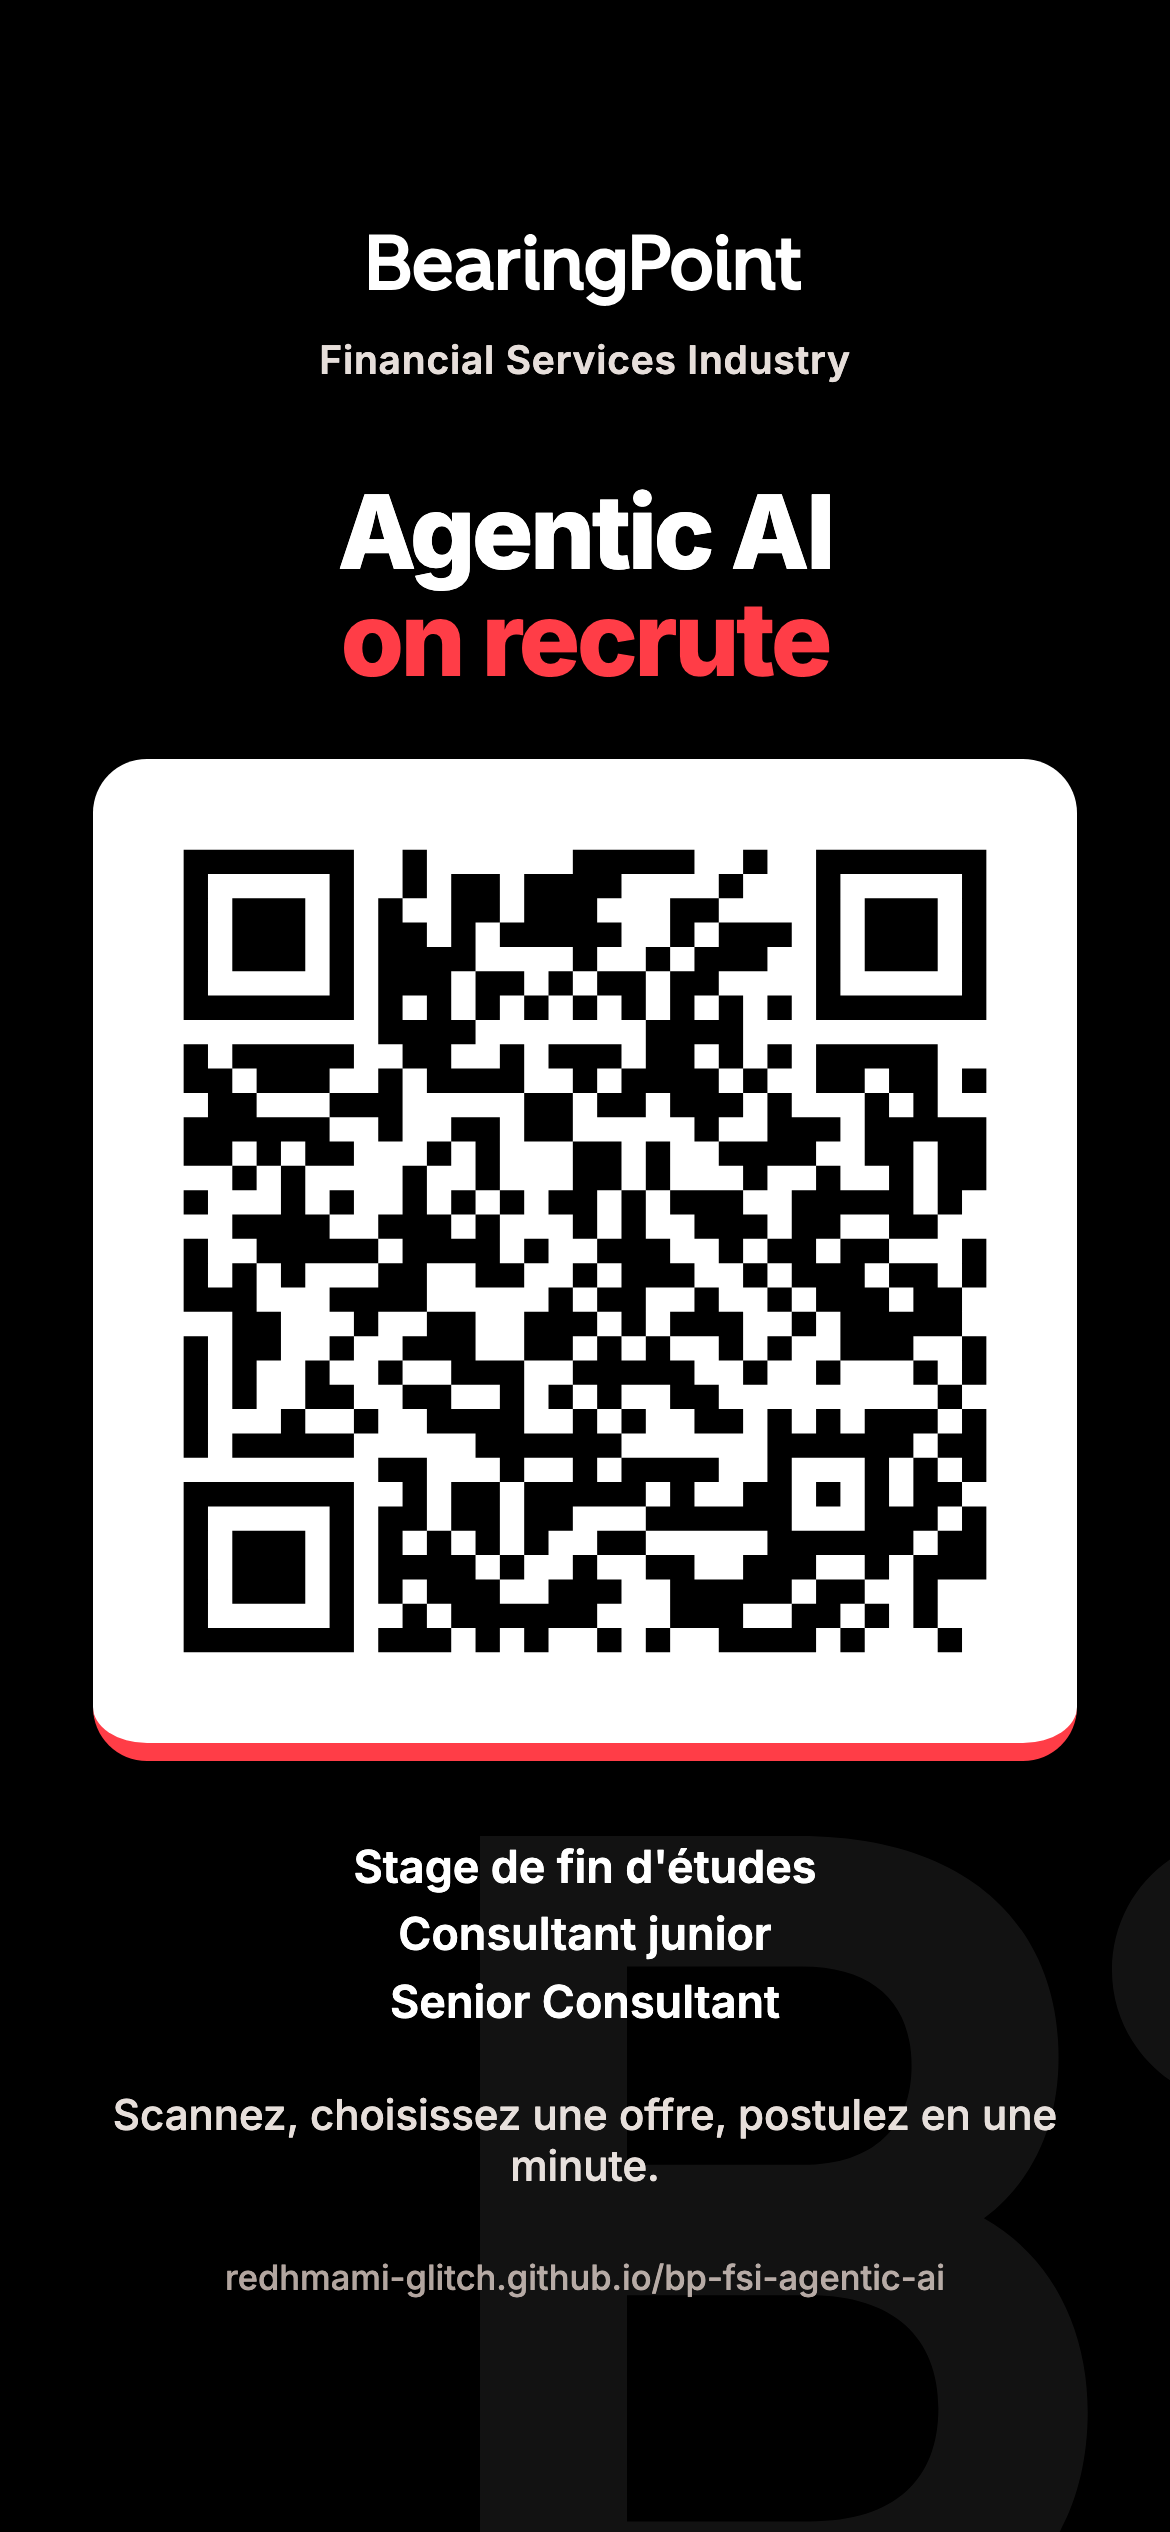
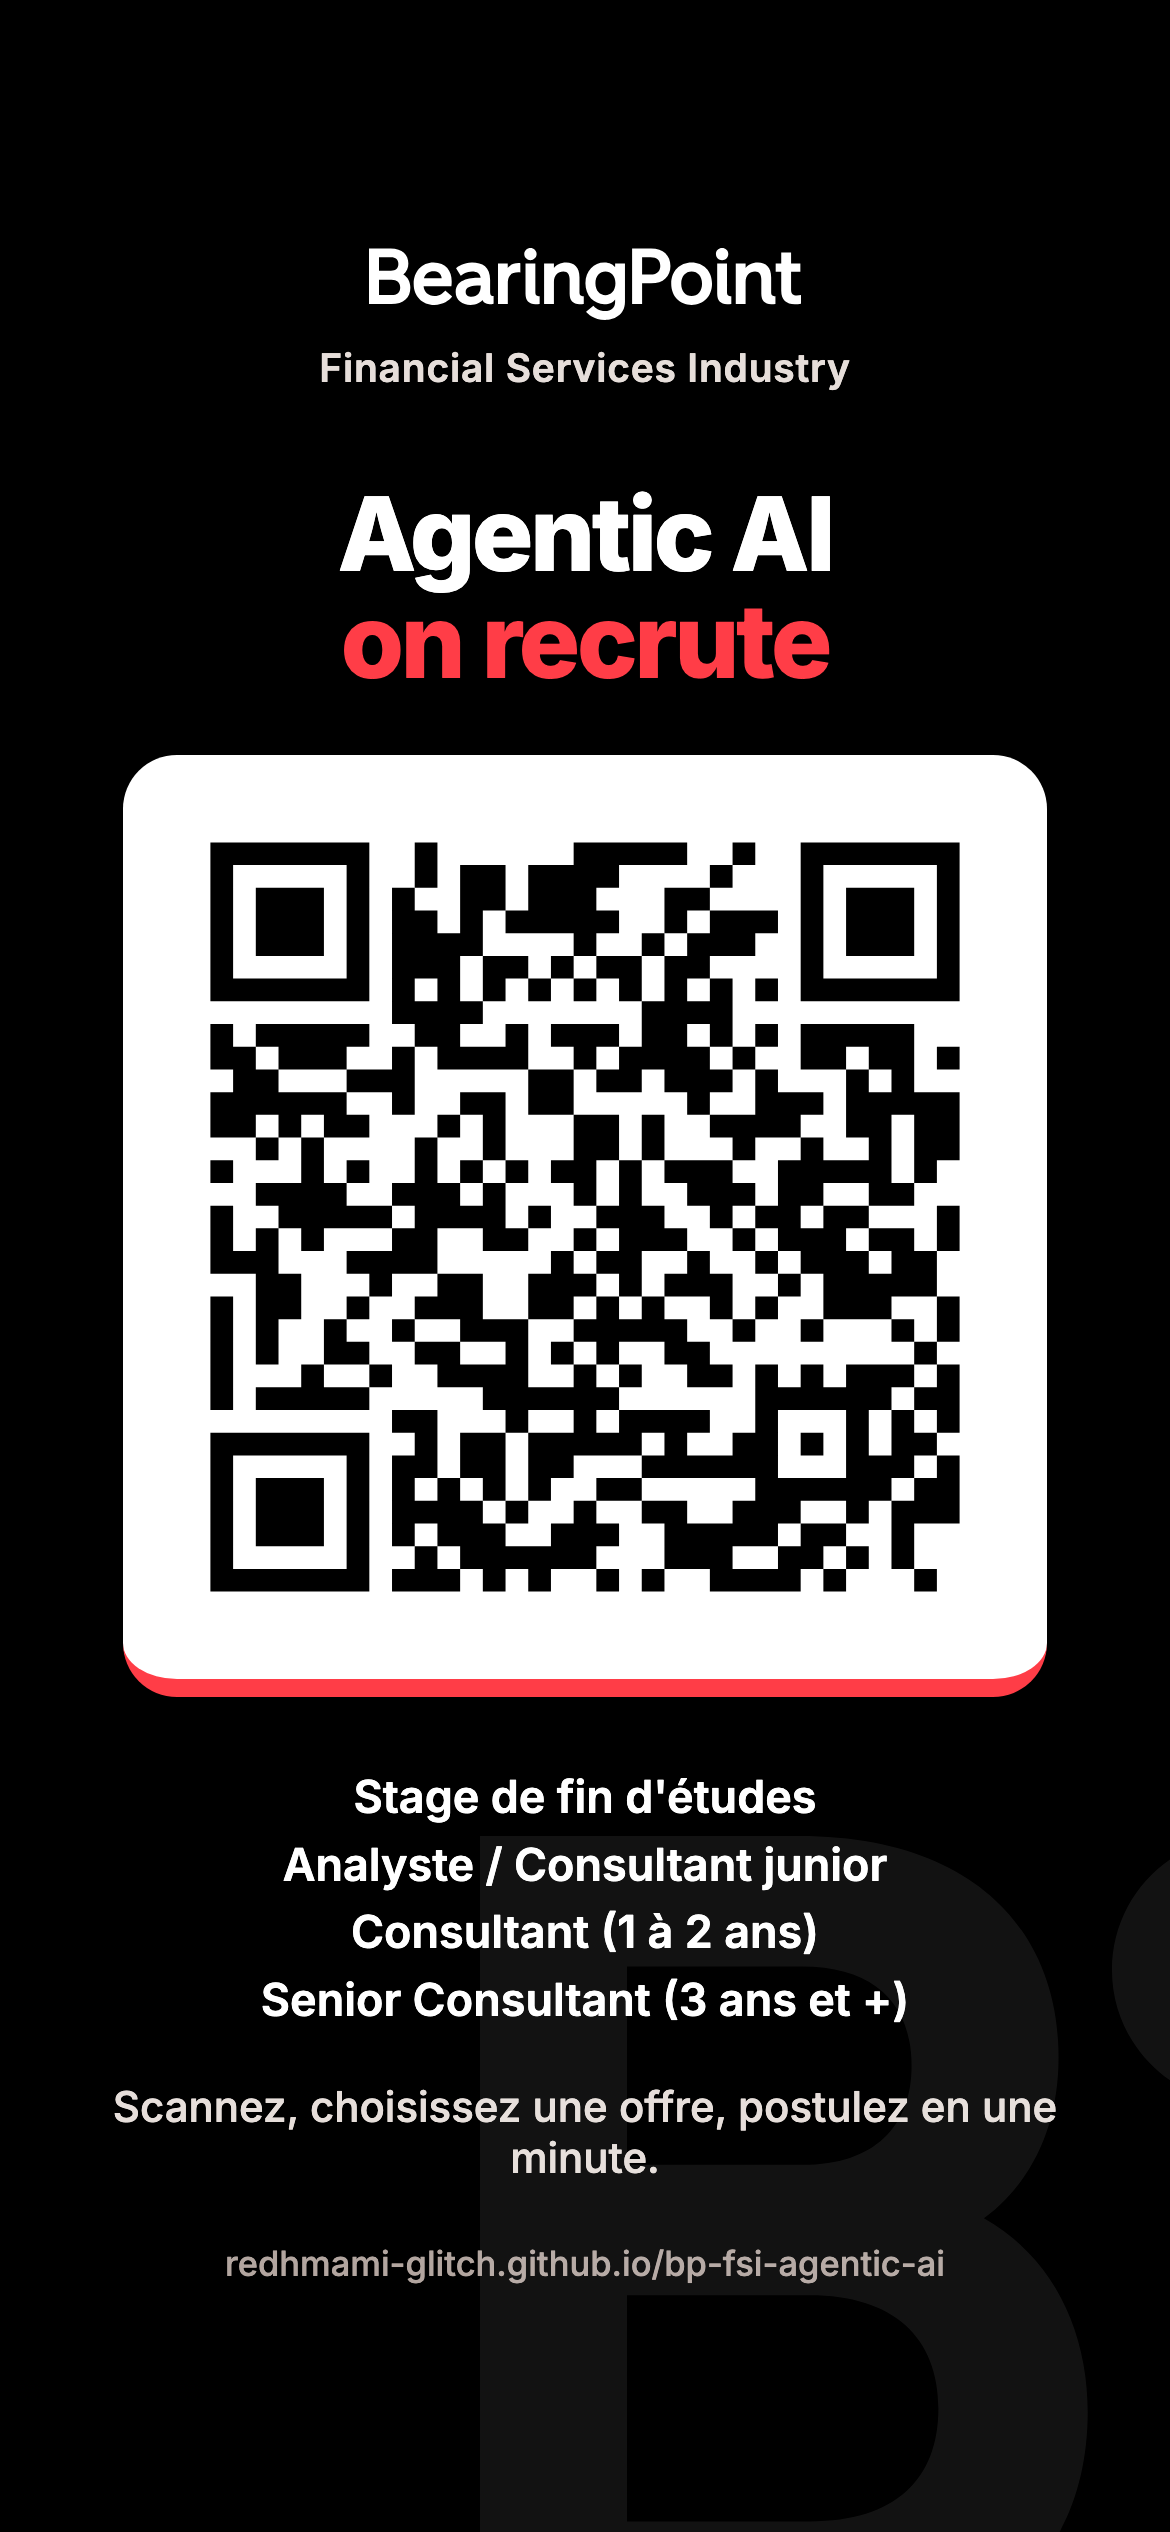
4 offres distinctes : stage, Analyste / CJ, Consultant 1-2 ans, Senior Consultant 3 ans et +

diff --git a/index.html b/index.html
@@ -4,15 +4,15 @@
 <meta charset="utf-8">
 <meta name="viewport" content="width=device-width, initial-scale=1">
 <title>Agentic AI | Financial Services Industry | BearingPoint</title>
-<meta name="description" content="BearingPoint Financial Services Industry recrute&nbsp;: stage de fin d'études, Consultant junior et Senior Consultant sur l'IA agentique, la stratégie IA et l'AI at scale en banque et assurance.">
+<meta name="description" content="BearingPoint Financial Services Industry recrute&nbsp;: stage de fin d'études, Analyste / Consultant junior, Consultant et Senior Consultant sur l'IA agentique, la stratégie IA et l'AI at scale en banque et assurance.">
 <meta property="og:title" content="Agentic AI x Financial Services Industry&nbsp;: on recrute">
-<meta property="og:description" content="Stage de fin d'études, Consultant junior, Senior Consultant. Paris La Défense.">
+<meta property="og:description" content="Stage de fin d'études, Analyste / Consultant junior, Consultant, Senior Consultant. Paris La Défense.">
 <meta name="theme-color" content="#000000">
 <link rel="icon" href="assets/favicon.svg" type="image/svg+xml">
 <link rel="preconnect" href="https://fonts.googleapis.com">
 <link rel="preconnect" href="https://fonts.gstatic.com" crossorigin>
 <link href="https://fonts.googleapis.com/css2?family=Inter:wght@400;500;600;700;800&display=swap" rel="stylesheet">
-<link rel="stylesheet" href="assets/style.css?v=5">
+<link rel="stylesheet" href="assets/style.css?v=7">
 </head>
 <body>
 
@@ -27,7 +27,8 @@
     <p class="lede">Rejoignez l'équipe Financial Services Industry de BearingPoint. Avec nous, vous repenserez les processus métier des grands acteurs de la banque et de l'assurance (finance, risques, opérations, conformité) autour d'agents IA qui travaillent aux côtés des équipes, en production.</p>
     <div class="chips">
       <a class="chip" href="#stage">Stage de fin d'études</a>
-      <a class="chip" href="#consultant">Consultant junior</a>
+      <a class="chip" href="#analyste">Analyste / Consultant junior</a>
+      <a class="chip" href="#consultant">Consultant</a>
       <a class="chip" href="#senior">Senior Consultant</a>
     </div>
   </div>
@@ -95,12 +96,41 @@
     <button class="apply" data-role="Stage de fin d'études Agentic AI FSI">Postuler</button>
   </article>
 
-  <!-- ===================== CONSULTANT ===================== -->
+  <!-- ===================== ANALYSTE / CJ ===================== -->
+  <article class="offer" id="analyste">
+    <div class="offer-head">
+      <span class="tag">CDI, jeune diplômé</span>
+      <h3>Analyste / Consultant junior Agentic AI</h3>
+      <p class="meta">Premier poste après votre diplôme. Paris La Défense, travail hybride.</p>
+    </div>
+    <details>
+      <summary>Voir l'offre</summary>
+      <h4>Vos missions</h4>
+      <ul>
+        <li>Intégrer une équipe de mission et contribuer dès les premières semaines à la refonte d'un processus métier (finance, risques, opérations, conformité).</li>
+        <li>Analyser les données et les processus existants, mesurer où un agent IA fait gagner du temps ou de la qualité.</li>
+        <li>Prototyper et tester des agents avec les équipes data du client.</li>
+        <li>Produire les analyses et les supports présentés aux directions métier.</li>
+        <li>Suivre un parcours de formation structuré&nbsp;: méthodes du conseil, IA, secteur financier.</li>
+      </ul>
+      <h4>Votre profil</h4>
+      <ul>
+        <li>Diplômé (ou en cours de diplôme) d'une grande école d'ingénieurs généraliste, avec une coloration maths appliquées, informatique, data science ou finance.</li>
+        <li>Un ou plusieurs stages réussis, idéalement en conseil, en banque, en assurance ou dans une équipe data et IA.</li>
+        <li>Vous avez déjà manipulé un LLM ou un framework d'agents en projet ou en hackathon.</li>
+        <li>Rigueur analytique, aisance à l'oral, goût du travail en équipe.</li>
+        <li>Français et anglais courants.</li>
+      </ul>
+    </details>
+    <button class="apply" data-role="Analyste / Consultant junior Agentic AI FSI">Postuler</button>
+  </article>
+
+  <!-- ===================== CONSULTANT 1-2 ANS ===================== -->
   <article class="offer" id="consultant">
     <div class="offer-head">
-      <span class="tag">CDI, 0 à 3 ans</span>
-      <h3>Consultant junior Agentic AI</h3>
-      <p class="meta">Jeune diplômé ou première expérience. Paris La Défense, travail hybride.</p>
+      <span class="tag">CDI, 1 à 2 ans d'expérience</span>
+      <h3>Consultant Agentic AI</h3>
+      <p class="meta">Première expérience en conseil, banque, assurance ou data. Paris La Défense, travail hybride.</p>
     </div>
     <details>
       <summary>Voir l'offre</summary>
@@ -108,28 +138,28 @@
       <ul>
         <li>Prendre en charge un sujet de bout en bout&nbsp;: cadrage du cas d'usage, ateliers métier, conception de l'agent, suivi du pilote.</li>
         <li>Faire le lien entre les métiers (finance, risques, opérations, conformité) et les équipes data et IT.</li>
-        <li>Définir les indicateurs de performance de l'agent et piloter son évaluation&nbsp;: qualité, coût, délai, risques.</li>
+        <li>Définir les indicateurs de performance de l'agent et piloter son évaluation&nbsp;: qualité, coût, délai.</li>
         <li>Contribuer au passage à l'échelle&nbsp;: industrialisation, adoption par les équipes, mesure de la valeur.</li>
-        <li>Participer aux réponses aux appels d'offres et au développement de nos offres IA.</li>
+        <li>Participer aux réponses aux appels d'offres et accompagner les analystes et stagiaires.</li>
       </ul>
       <h4>Votre profil</h4>
       <ul>
-        <li>Diplômé d'une grande école d'ingénieurs généraliste (ou équivalent), idéalement avec une spécialisation en data, IA, systèmes d'information ou finance.</li>
-        <li>Une première expérience (stage ou CDI) en conseil, en banque, en assurance ou dans une équipe data et IA.</li>
-        <li>Rigueur analytique, aisance à l'oral et à l'écrit, goût du travail en équipe.</li>
-        <li>Une vraie curiosité pour l'IA générative et agentique, que vous avez déjà mise en pratique.</li>
+        <li>Diplômé d'une grande école d'ingénieurs généraliste (ou équivalent).</li>
+        <li>1 à 2 ans d'expérience en conseil, en banque, en assurance ou dans une équipe data et IA.</li>
+        <li>Un premier projet IA, data ou automatisation à votre actif, idéalement jusqu'au pilote.</li>
+        <li>Autonomie, aisance face aux interlocuteurs métier, sens du livrable.</li>
         <li>Français et anglais courants.</li>
       </ul>
     </details>
-    <button class="apply" data-role="Consultant junior Agentic AI FSI">Postuler</button>
+    <button class="apply" data-role="Consultant Agentic AI FSI">Postuler</button>
   </article>
 
   <!-- ===================== SENIOR ===================== -->
   <article class="offer" id="senior">
     <div class="offer-head">
-      <span class="tag">CDI, 3 à 6 ans</span>
+      <span class="tag">CDI, à partir de 3 ans</span>
       <h3>Senior Consultant Agentic AI</h3>
-      <p class="meta">Expérience en conseil, banque ou assurance. Paris La Défense, travail hybride.</p>
+      <p class="meta">3 ans d'expérience ou plus en conseil, banque ou assurance. Paris La Défense, travail hybride.</p>
     </div>
     <details>
       <summary>Voir l'offre</summary>
@@ -137,15 +167,15 @@
       <ul>
         <li>Piloter un lot de mission ou un pilote agentique&nbsp;: planning, qualité des livrables, relation avec les directions métier et IT.</li>
         <li>Construire des stratégies IA et des feuilles de route pour des directions générales.</li>
-        <li>Concevoir l'architecture fonctionnelle de solutions multi-agents et arbitrer entre autonomie de l'agent, contrôle humain et coût.</li>
+        <li>Concevoir des solutions multi-agents et arbitrer entre autonomie de l'agent, contrôle humain et coût.</li>
         <li>Porter le passage à l'échelle (AI at scale)&nbsp;: plateforme, gouvernance, modèle opérationnel, adoption.</li>
-        <li>Encadrer et faire grandir les consultants et stagiaires, contribuer aux propositions commerciales.</li>
+        <li>Encadrer et faire grandir l'équipe, contribuer aux propositions commerciales.</li>
       </ul>
       <h4>Votre profil</h4>
       <ul>
         <li>Formation d'ingénieur généraliste de haut niveau (ou équivalent).</li>
-        <li>3 à 6 ans d'expérience en conseil, idéalement auprès d'institutions financières, dont au moins un projet data, IA ou automatisation mené jusqu'à la production.</li>
-        <li>Bonne compréhension d'au moins un métier&nbsp;: assurance (IARD, vie, santé), banque de détail, financement ou gestion d'actifs.</li>
+        <li>Au moins 3 ans d'expérience en conseil, idéalement auprès d'institutions financières, dont un projet data, IA ou automatisation mené jusqu'à la production.</li>
+        <li>Bonne compréhension d'au moins un métier&nbsp;: assurance, banque de détail, financement ou gestion d'actifs.</li>
         <li>Capacité à animer un comité, à structurer une recommandation et à encadrer une équipe.</li>
         <li>Français et anglais courants.</li>
       </ul>
@@ -194,7 +224,7 @@
   </div>
 </footer>
 
-<div class="sticky-cta"><a href="#offres" class="apply-ghost">Voir les 3 offres et postuler</a></div>
+<div class="sticky-cta"><a href="#offres" class="apply-ghost">Voir les 4 offres et postuler</a></div>
 
 <!-- ===================== APPLY SHEET ===================== -->
 <dialog id="applyDialog" aria-labelledby="dlgTitle">

diff --git a/print/phone.html b/print/phone.html
@@ -7,13 +7,13 @@
 <link href="https://fonts.googleapis.com/css2?family=Inter:wght@500;600;800&display=swap" rel="stylesheet">
 <style>
   html,body{margin:0;width:390px;height:844px;background:#000;color:#fff;font-family:Inter,system-ui,sans-serif;overflow:hidden}
-  main{position:relative;height:844px;display:flex;flex-direction:column;align-items:center;justify-content:center;gap:18px;padding:0 24px;box-sizing:border-box;text-align:center}
+  main{position:relative;height:844px;display:flex;flex-direction:column;align-items:center;justify-content:center;gap:16px;padding:0 24px;box-sizing:border-box;text-align:center}
   .logo{height:24px;width:auto}
   .team{font-size:13px;font-weight:600;color:#e6deda;margin-top:-8px;letter-spacing:.02em}
   h1{margin:14px 0 4px;font-size:34px;line-height:1.05;letter-spacing:-.03em;font-weight:800}
   h1 em{font-style:normal;color:#ff3d47}
   .card{background:#fff;border-radius:18px;padding:14px;border-bottom:6px solid #ff3d47}
-  .card img{display:block;width:300px;height:300px}
+  .card img{display:block;width:280px;height:280px}
   .roles{margin:6px 0 0;font-weight:600;font-size:15px;line-height:1.5}
   .cta{margin:0;color:#e6deda;font-size:14px}
   .url{margin:4px 0 0;color:#b2a59f;font-size:11.5px;word-break:break-all}
@@ -26,7 +26,7 @@
   <div class="team">Financial Services Industry</div>
   <h1>Agentic AI<br><em>on recrute</em></h1>
   <div class="card"><img src="../assets/qr.svg" alt="QR code"></div>
-  <p class="roles">Stage de fin d'études<br>Consultant junior<br>Senior Consultant</p>
+  <p class="roles">Stage de fin d'études<br>Analyste / Consultant junior<br>Consultant (1 à 2 ans)<br>Senior Consultant (3 ans et +)</p>
   <p class="cta">Scannez, choisissez une offre, postulez en une minute.</p>
   <p class="url" id="url"></p>
   <img class="mark" src="../assets/logo-symbol-white.svg" alt="">

diff --git a/qr.html b/qr.html
@@ -26,7 +26,7 @@
   <div class="team">Financial Services Industry</div>
   <h1>Agentic AI : <em>on recrute</em></h1>
   <div class="card"><img src="assets/qr.svg" alt="QR code vers les offres"></div>
-  <p class="roles">Stage de fin d'études, Consultant junior, Senior Consultant</p>
+  <p class="roles">Stage de fin d'études, Analyste / Consultant junior, Consultant, Senior Consultant</p>
   <p>Scannez, choisissez une offre, postulez en une minute.</p>
   <img class="mark" src="assets/logo-symbol-white.svg" alt="" aria-hidden="true">
 </main>
